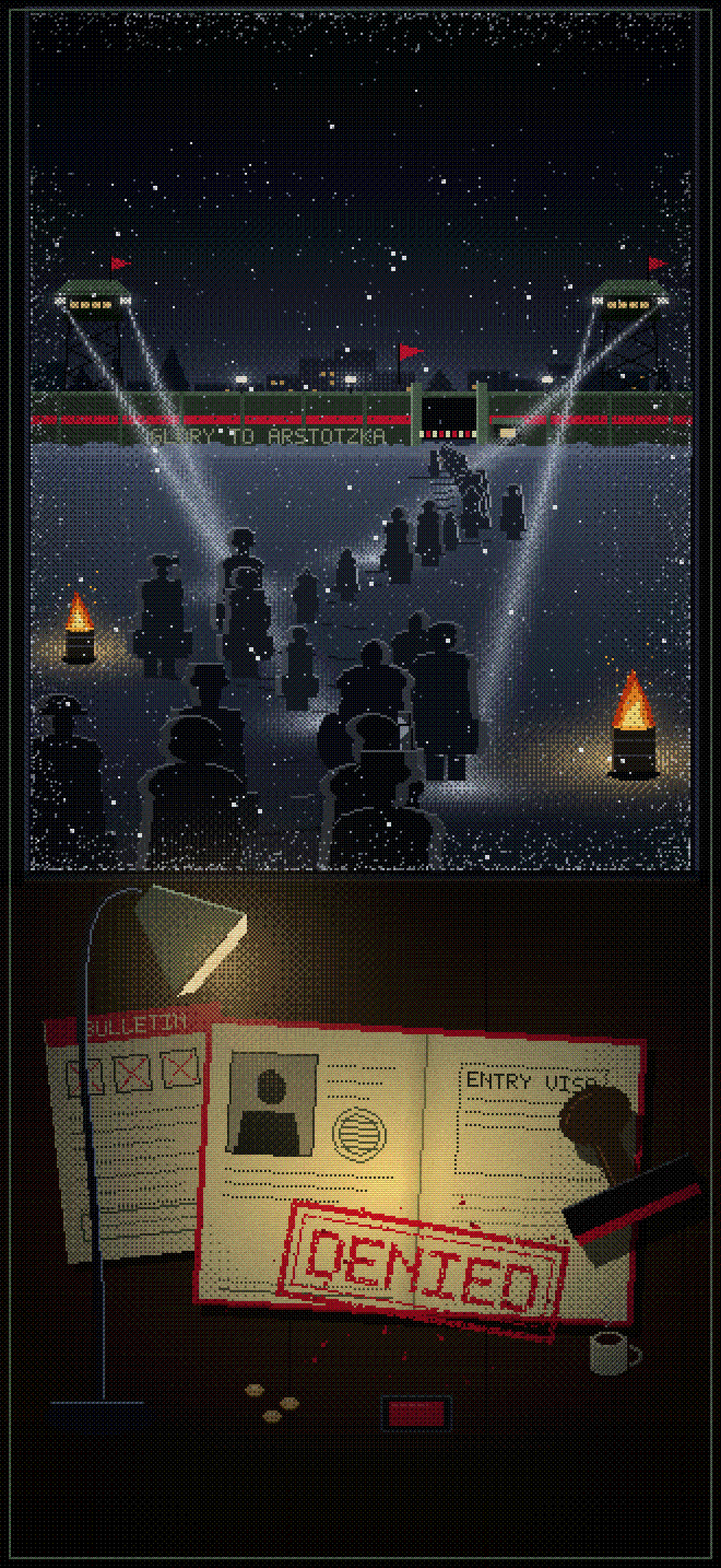
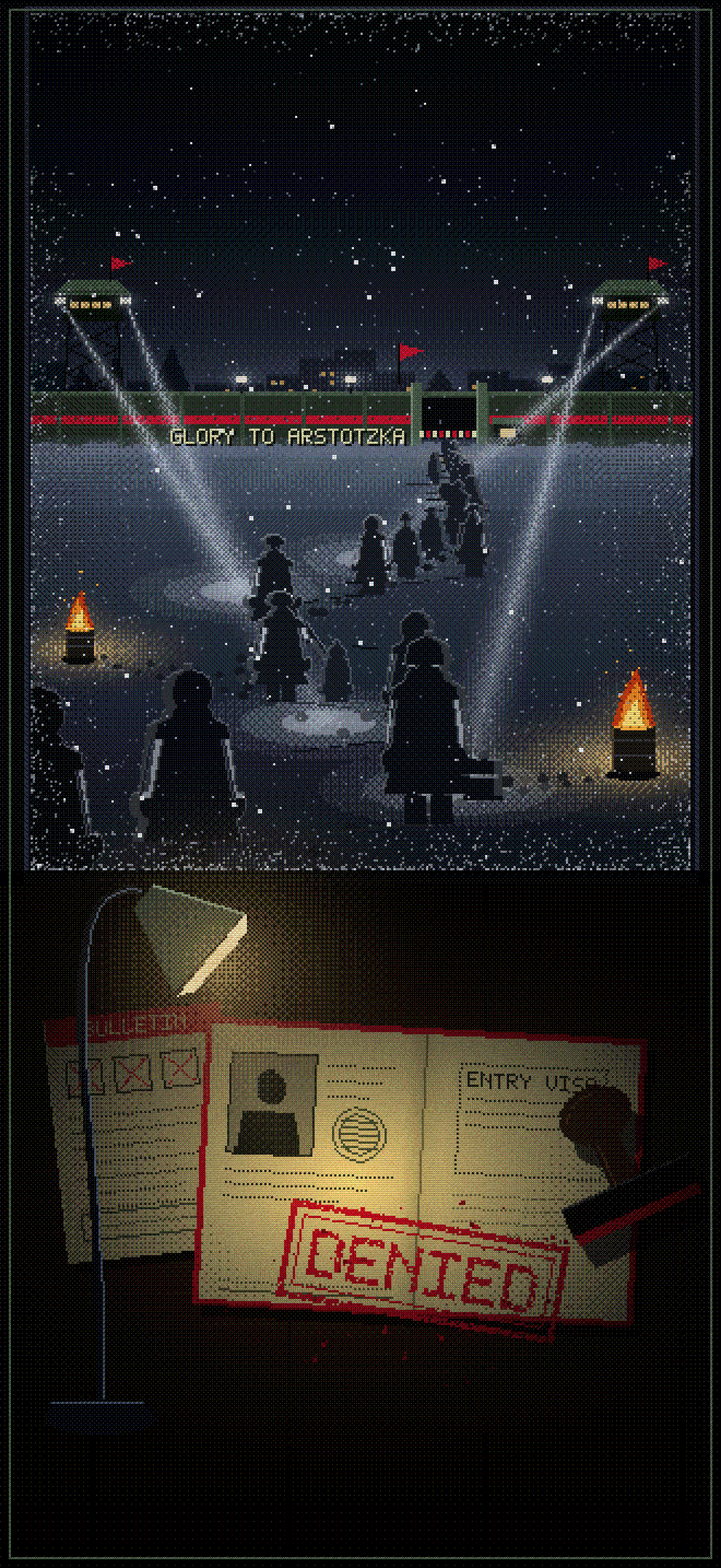
Wallpapers: Papers, Please A+ pass, readable queue and a quieter desk
Foreground figures get shoulders, collars, hats, a suitcase, a bundle and a child holding a hand, with rim light and gaps between them. Footprints, ground fog and dithered beam landings in the yard. Coffee cup, coins and ink pad gone, lamp pool falls off to black, wall sign crisp.

Claude-Session: https://claude.ai/code/session_01GRUokM32JgeWkBY35PaRht

diff --git a/tools/papersyard.py b/tools/papersyard.py
@@ -45,7 +45,29 @@ def beam(img, lit, sx, sy, tx, ty, wid, k, box, col=COLD):
             if not 0 < s < 1: continue
             hw = 1 + wid * s / 2; p = abs(-dx * uy + dy * ux)
             if p < hw: lighten(img, lit, x, y, k * (1 - p / hw) ** 1.4 * (1 - .4 * s), col)
-    if col == COLD: pool(img, lit, tx, ty, wid * 1.5, wid * .42, COLD, .9, box)
+    if col == COLD: pool(img, lit, tx, ty, wid * 1.5, wid * .42, COLD, .5, box); landing(img, lit, tx, ty, wid * 1.3, wid * .36, box)
+
+
+def landing(img, lit, cx, cy, rx, ry, box):
+    """Where a beam hits the snow: a soft dithered ellipse in three rings, dense in the middle and sparse at the rim."""
+    px = img.load()
+    for y in range(max(box[1], int(cy - ry)), min(box[3], int(cy + ry) + 1)):
+        for x in range(max(box[0], int(cx - rx)), min(box[2], int(cx + rx) + 1)):
+            q = math.hypot((x - cx) / rx, (y - cy) / ry)
+            if q >= 1: continue
+            dens, a = (.95, .5) if q < .36 else ((.6, .32) if q < .68 else (.3, .2))
+            if dens * 16 > BAYER[y % 4][x % 4]: px[x, y] = mix(px[x, y], COLD, a)
+            lit.putpixel((x, y), max(lit.getpixel((x, y)), int(255 * (1 - q) * .9)))
+
+
+def fog(img, G, rng):
+    """A low band of ground fog along the foot of the wall, drifting in patches, dithered."""
+    x0, y0, x1, y1 = G["win"]; hor = G["hor"]; fh = int(G["wall"] * 1.1); ph = [rng.uniform(0, 6.28) for _ in range(3)]; px = img.load()
+    for y in range(hor - 5, hor + fh):
+        f = (1 - (y - hor) / fh) ** 1.5 if y >= hor else 1 - (hor - y) / 6
+        for x in range(x0, x1):
+            i = f * (.5 + .28 * math.sin(x * .045 + ph[0]) + .22 * math.sin(x * .12 + y * .25 + ph[1]))
+            if i > 0: px[x, y] = mix(px[x, y], hexc("#7a889e"), .5 if i * 16 > BAYER[y % 4][x % 4] else .14)
 
 
 def skyline(d, G, rng):
@@ -97,58 +119,75 @@ def gate(d, G):
 
 
 def person(img, lit, x, foot, h, kind, side, rng, far=0.0):
-    """One silhouette seen from behind in a heavy coat, drawn as a mask, filled near black and edged with floodlight on its lit side."""
-    h = max(5, int(h)); W, Hh = int(h * .9) + 10, h + 8; mk = Image.new("L", (W, Hh)); d = ImageDraw.Draw(mk); cx, t = W // 2, 4; big = h >= 30
+    """One figure seen from behind in a heavy coat: shoulders, collar, hat and something carried, drawn as a mask, filled
+    near black and edged with a bright rim of floodlight on the lit side (a faint one on the other) so each one separates."""
+    h = max(5, int(h)); W, Hh = int(h * 1.2) + 12, h + 8; mk = Image.new("L", (W, Hh)); d = ImageDraw.Draw(mk); cx, t = W // 2, 4; big = h >= 28
     def P(a, b): return (cx + a * h, t + b * h)
     def r(a, b, c, e): d.rectangle([cx + a * h, t + b * h, cx + max(a, c) * h, t + max(b, e) * h], fill=255)
     def o(a, b, c, e): d.ellipse([cx + a * h, t + b * h, cx + c * h, t + e * h], fill=255)
-    w = {3: .2, 4: .22}.get(kind, .23)
-    d.polygon([P(-.17, .2), P(.17, .2), P(w + .01, .84), P(-w - .01, .84)], fill=255); o(-.2, .17, .2, .36)   # coat and sloped shoulders
-    r(-.12, .8, -.02, 1); r(.02, .8, .12, 1); o(-.07, .04, .07, .2); r(-.04, .17, .04, .24)    # boots, head, neck
-    if big:
-        d.line([P(-.2, .36), P(-w - .01, .8)], fill=0, width=1); d.line([P(.2, .36), P(w + .01, .8)], fill=0, width=1)   # a gap between arm and coat
-        r(-w - .03, .62, -w + .01, .8); r(w - .01, .62, w + .03, .8)   # hands
-    if kind == 0: o(-.115, -.01, .115, .12); o(-.125, .05, .125, .17)   # fur hat with flaps
-    elif kind == 1: o(-.125, -.01, .125, .25); o(-.08, .15, .08, .3)   # a big hood and scarf
-    elif kind == 2: o(-.1, -.01, .1, .09); r(-.13, .06, .13, .08)   # brimmed cap
-    elif kind == 3: r(.2, .64, .36, .86); d.line([P(.28, .64), P(.28, .56)], fill=255)   # a suitcase
-    elif kind == 4: o(-.3, .42, -.14, .72); r(-.14, .26, -.1, .5)   # a bag on the hip
-    elif kind == 5: o(-.1, -.1, .1, .08); o(-.12, .0, .12, .1)   # a tall fur hat
-    elif kind == 6: o(-.1, -.02, .1, .09); d.line([P(.2, .82), P(.13, -.04)], fill=255, width=max(1, h // 18))   # cap and rifle
+    if kind == 7:   # a child in a bobble hat
+        d.polygon([P(-.2, .32), P(.2, .32), P(.27, .86), P(-.27, .86)], fill=255); o(-.15, .06, .15, .36); o(-.04, -.03, .04, .08); r(-.15, .84, -.03, 1); r(.03, .84, .15, 1)
+    else:
+        w = .22 if kind == 3 else .25
+        d.polygon([P(-.05, .19), P(.05, .19), P(.2, .27), P(.23, .5), P(w + .02, .84), P(-w - .02, .84), P(-.23, .5), P(-.2, .27)], fill=255)   # coat with sloped shoulders
+        o(-.12, .15, .12, .28); o(-.07, .03, .07, .2); r(-.12, .8, -.02, 1); r(.02, .8, .12, 1)   # collar, head, boots
+        if big:
+            d.line([P(-.18, .34), P(-w - .02, .8)], fill=0, width=1); d.line([P(.18, .34), P(w + .02, .8)], fill=0, width=1)   # a gap between arm and coat
+            o(-w - .04, .6, -w + .02, .72); o(w - .02, .6, w + .04, .72)   # hands
+        if kind in (0, 3): o(-.115, -.01, .115, .12); o(-.125, .05, -.06, .17); o(.06, .05, .125, .17); r(-.02, -.04, .02, 0)   # fur hat, flaps down
+        elif kind == 1: o(-.125, -.01, .125, .25); o(-.1, .15, .1, .29)   # a hood and scarf
+        elif kind == 2: o(-.1, 0, .1, .09); r(-.12, .06, .12, .1)   # flat cap
+        elif kind == 4: o(-.32, .06, -.1, .34); d.line([P(-.22, .24), P(-.15, .5)], fill=255, width=max(1, h // 25))   # a bundle on a stick over the shoulder
+        elif kind == 5: o(-.1, -.1, .1, .08); o(-.12, 0, .12, .1)   # a tall fur hat
+        elif kind == 6: o(-.1, -.02, .1, .09); r(-.13, .06, .13, .09); d.line([P(.21, .8), P(.14, -.04)], fill=255, width=max(1, h // 18))   # cap and rifle
+        elif kind == 8: o(-.11, 0, .11, .1); o(-.125, .05, .125, .15); d.line([P(.2, .3), P(.43, .63)], fill=255, width=max(2, h // 12)); o(.4, .58, .47, .68)   # reaching for a child's hand
+        if kind == 3: r(.2, .66, .4, .88); d.line([P(.3, .66), P(.3, .6)], fill=255, width=max(1, h // 28)); d.line([P(.23, .74), P(.37, .74)], fill=0)   # a suitcase
     body = mix(hexc("#06080c"), hexc("#2a3344"), far * .75)   # far figures sit in the haze, near ones are black
-    img.paste(Image.new("RGB", mk.size, body), (int(x - cx), int(foot - t - h)), mk)
+    ox, oy = int(x - cx), int(foot - t - h)
+    img.paste(Image.new("RGB", mk.size, body), (ox, oy), mk)
     if h < 9: return
     k = .62 + .38 * lit.getpixel((int(min(max(x, 0), img.width - 1)), int(min(foot - h // 2, img.height - 1)))) / 255; w = 1 + h // 30
-    for n in range(w + 2):   # a bright edge on the lit side, then a soft fall-off into the coat
-        e = ImageChops.subtract(mk, ImageChops.offset(mk, side * (n + 1), 0)).point(lambda v: 255 if v > 100 else 0); d2 = ImageDraw.Draw(e); d2.rectangle([0, t + int(.86 * h), mk.width, mk.height], fill=0)
-        kk = k if n < w else k * (.3 if n == w else .15)
-        if n < w + (1 if h > 25 else 0): img.paste(Image.new("RGB", mk.size, mix(body, COLD, kk)), (int(x - cx), int(foot - t - h)), e)
-    top = ImageChops.subtract(mk, ImageChops.offset(mk, 0, 1)).point(lambda v: 255 if v > 100 else 0)
-    img.paste(Image.new("RGB", mk.size, mix(body, COLD, k * .6)), (int(x - cx), int(foot - t - h)), top)
+    def edge(dx, dy, kk):
+        e = ImageChops.subtract(mk, ImageChops.offset(mk, dx, dy)).point(lambda v: 255 if v > 100 else 0); ImageDraw.Draw(e).rectangle([0, t + int(.86 * h), mk.width, mk.height], fill=0)
+        img.paste(Image.new("RGB", mk.size, mix(body, COLD, kk)), (ox, oy), e)
+    for n in range(w + 1): edge(side * (n + 1), 0, k if n < w else k * .3)
+    if h >= 25: edge(-side, 0, k * .4)
+    edge(0, 1, k * .6)
+
+
+def prints(img, pts):
+    """Footprints in the snow: pairs of small dents with a faint lip, along a list of (x, y, h)."""
+    d = ImageDraw.Draw(img)
+    for x, y, h in pts:
+        for s in (-1, 1):
+            fx, fy = x + s * .09 * h, y - (.06 if s > 0 else -.06) * h; c = img.getpixel((int(fx), int(min(fy, img.height - 1))))
+            d.ellipse([fx - .03 * h - .5, fy - .018 * h - .5, fx + .03 * h + .5, fy + .018 * h + .5], fill=mix(c, INK, .45)); d.point((fx + 1, fy + .03 * h + 1), mix(c, COLD, .25))
 
 
 def queue(img, lit, G, rng):
     hor, yb, y1 = G["hor"], G["yb"], G["win"][3]
     def at(u):
         return G["gate"] + (G["near_x"] - G["gate"]) * u + G["amp"] * math.sin(u * G["bends"] * math.pi) * u ** .6, hor + (yb - hor) * u, G["h0"] + (G["h1"] - G["h0"]) * u
-    d = ImageDraw.Draw(img); steps = []; u = .012
+    d = ImageDraw.Draw(img); steps = []; trail = []; u = .012; gap = G.get("gap", .3)
     while True:
         x, y, h = at(u)
         if y > y1 + h * .6: break
-        steps.append((x, y, h)); u += G.get("gap", .25) * h / (yb - hor) * rng.uniform(.85, 1.15)
-    items = []
+        steps.append((x, y, h)); u += gap * h / (yb - hor) * rng.uniform(.85, 1.15) * (2.1 if rng.random() < .22 else 1)   # a few bigger gaps
+    uu = .012
+    while uu < u: trail.append(at(uu)); uu += .12 * at(uu)[2] / (yb - hor)
+    for bx, by, bs in G["barrels"]:   # tracks lead off the lane to the burn barrels
+        sx, sy, sh = at(.42 if bx < G["win"][2] / 2 else .6)
+        for f in [i / 9 for i in range(1, 9)]: trail.append((sx + (bx - sx) * f, sy + (by - sy) * f, sh * (1 - f) + 14 * f))
+    prints(img, trail); items = []
     for n, (x, y, h) in enumerate(steps):
-        kid = rng.random() < .1; hh = h * (.62 if kid else rng.uniform(.9, 1.08))
-        items.append((y, "p", x + rng.uniform(-.14, .14) * h, hh, rng.choice([0, 0, 1, 1, 2, 3, 4, 5]), 1 if x < G["win"][2] / 2 else -1))
-        if n % 7 == 4:   # a guard on the flank, rifle slung
-            items.append((y + .2, "p", x + (1 if n % 2 else -1) * .8 * h, h, 6, 1 if x < G["win"][2] / 2 else -1))
-    for it in sorted(items, key=lambda i: i[0]):
-        y, kind = it[0], it[1]
-        if kind == "p":
-            _, _, x, h, k, side = it
-            g = img.getpixel((int(x), min(int(y), img.height - 1)))   # a long shadow thrown away from the floodlight
-            d.polygon([(x - .12 * h, y), (x + .12 * h, y), (x + side * 1.0 * h, y + .1 * h)], fill=mix(g, INK, .55))
-            person(img, lit, x, y, h, k, side, rng, max(0, 1 - h / G["h1"]) ** 1.5)
+        kind = rng.choice([0, 0, 1, 1, 2, 2, 3, 4, 5]); hh = h * rng.uniform(.84, 1.12); side = 1 if x < G["win"][2] / 2 else -1; jx = x + rng.uniform(-.2, .2) * h
+        if n % 6 == 2 and hh >= 20: kind = 8; items.append((y + .1, jx + .52 * hh, hh * .54, 7, side))   # a child holding a hand
+        items.append((y, jx, hh, kind, side))
+        if n % 7 == 4: items.append((y + .2, x + (1 if n % 2 else -1) * .9 * h, h, 6, side))   # a guard on the flank, rifle slung
+    for y, x, h, k, side in sorted(items, key=lambda i: i[0]):
+        g = img.getpixel((int(x), min(int(y), img.height - 1)))   # a long shadow thrown away from the floodlight
+        d.polygon([(x - .12 * h, y), (x + .12 * h, y), (x + side * 1.0 * h, y + .1 * h)], fill=mix(g, INK, .55))
+        person(img, lit, x, y, h, k, side, rng, max(0, 1 - h / G["h1"]) ** 1.5)
 
 
 def barrel(img, lit, x, y, s, rng, box):
@@ -196,6 +235,7 @@ def yard(img, G, rng, scale):
         h = 2 + rng.randrange(3); d.ellipse([x - 5, hor + 1 - h, x + 5, hor + 3], fill=mix(hexc("#46526a"), COLD, .15))
     for lx in G["posts"]:   # small lamps along the wall
         d.line([(lx, top - 5), (lx, top)], fill=INK); d.rectangle([lx - 2, top - 7, lx + 2, top - 5], fill=(255, 246, 215)); heads.append((lx, top - 6))
+    fog(img, G, rng)
     for (hx, hy), (tx, ty, wd) in zip(heads[:4], G["beams"]): beam(img, lit, hx, hy, tx, ty, wd, .9, box)
     for hx, hy in heads: pool(img, lit, hx, hy, 15 * u, 10 * u, COLD, .8, box)
     pool(img, lit, G["gate"], hor + 4, 26 * u, 9 * u, WARM, .7, box)

diff --git a/tools/papersart.py b/tools/papersart.py
@@ -23,14 +23,14 @@ GLYPHS = {   # 5x7 pixel font, only the letters the wallpaper prints
 LAYOUT = {   # low-res coordinates. The phone keeps y < 70 (the clock) sky only, and y > 660 (the dock) dark desk
     "phone": dict(
         yard=dict(win=(14, 6, 316, 398), hor=205, wall=26, yb=470, gate=205, gw=30, towers=[42, 288], ctop=134, tu=1, posts=[110, 160, 250],
-                  beams=[(150, 330, 46), (110, 270, 40), (210, 360, 50), (170, 255, 36)], h0=6, h1=128, near_x=96, amp=96, bends=4.3, calm=70, barrels=[(36, 300, 1.5), (290, 352, 2.3)]),
-        scale=1, dtop=405, pool=(175, 540, 190, 135), pp=(192, 536, 98, 126, -3), bul=(66, 518, 82, 112, 6), stamp=(194, 582, 3, -10),
-        tool=(282, 532, 1.5, 24), lamp=(66, 410, 46, 646, 41), coins=[(116, 636), (132, 642), (124, 648)], pad=(190, 646), mug=(278, 612)),
+                  beams=[(150, 330, 46), (110, 270, 40), (210, 360, 50), (170, 255, 36)], h0=6, h1=128, gap=.26, near_x=96, amp=96, bends=4.3, calm=70, barrels=[(36, 300, 1.5), (290, 352, 2.3)]),
+        scale=1, dtop=405, pool=(160, 540, 205, 140), pp=(192, 536, 98, 126, -3), bul=(66, 518, 82, 112, 6), stamp=(194, 582, 3, -10),
+        tool=(282, 532, 1.5, 24), lamp=(66, 410, 46, 646, 41)),
     "desktop": dict(
         yard=dict(win=(22, 10, 618, 212), hor=122, wall=22, yb=292, gate=330, gw=22, towers=[96, 560], ctop=72, tu=.7, posts=[190, 250, 440],
                   beams=[(250, 190, 34), (210, 160, 30), (420, 200, 36), (370, 168, 28)], h0=4, h1=78, gap=.15, near_x=150, amp=200, bends=3.2, calm=0, barrels=[(70, 170, 1.1), (580, 190, 1.5)]),
         scale=1.5, dtop=219, pool=(335, 292, 250, 90), pp=(345, 288, 72, 88, -3), bul=(240, 292, 56, 80, 7), stamp=(347, 322, 2, -10),
-        tool=(430, 300, 1.0, 16), lamp=(178, 232, 150, 350, 38), coins=[(470, 332), (484, 337), (477, 342)], pad=(540, 320), mug=(95, 318)),
+        tool=(430, 300, 1.0, 16), lamp=(178, 232, 150, 350, 38)),
 }
 
 
@@ -120,7 +120,7 @@ def lamp_light(img, D, H):
     px = img.load(); cx, cy, rx, ry = D["pool"]
     for y in range(D["dtop"] - 7, H):
         for x in range(img.width):
-            q = math.hypot((x - cx) / rx, (y - cy) / ry); i = max(0, 1 - q) ** 1.1; f = .34 + .66 * i; r, g, b = px[x, y]
+            q = math.hypot((x - cx) / rx, (y - cy) / ry); i = max(0, 1 - q) ** 1.1; f = .1 + .9 * i ** 1.15; r, g, b = px[x, y]
             px[x, y] = (min(255, int(r * f * (1 + .22 * i))), min(255, int(g * f * (1 + .02 * i))), int(b * f * (1 - .3 * i)))
 
 
@@ -143,7 +143,6 @@ def papers(kind):
     W, H = SIZES[kind]; desktop = kind == "desktop"; scale = 8 if desktop else 4; w, h = W // scale, H // scale
     D = LAYOUT[kind]; G = D["yard"]; x0, y0, x1, y1 = G["win"]; dtop = D["dtop"]; rng = random.Random(41)
     img = Image.new("RGB", (w, h), hexc("#07090d")); d = ImageDraw.Draw(img); yard(img, G, rng, D["scale"]); d = ImageDraw.Draw(img)
-    sl = "GLORY TO ARSTOTZKA"; text(d, 69 if not desktop else 366, G["hor"] - 9, sl, mix(CREAM, DOLIVE, .45), 1)   # painted on the wall
     for r in ([0, 0, w, y0 - 1], [0, 0, x0 - 1, h], [x1 + 1, 0, w, h], [0, y1 + 1, w, h]): d.rectangle(r, fill=hexc("#07090d"))
     d.rectangle([x0 - 3, y0 - 3, x1 + 3, y1 + 3], outline=hexc("#2a3344"), width=2); d.rectangle([x0 - 1, y0 - 1, x1 + 1, y1 + 1], outline=hexc("#0b0e14"))
     for _ in range(int(2400 * D["scale"])):   # frost creeping in from the edges of the glass
@@ -159,12 +158,6 @@ def papers(kind):
     sx, sy, ss, sa = D["stamp"]; put(img, imprint(ss, rng), sx, sy, sa, (0, 0)); sp = ImageDraw.Draw(img)
     splatter(sp, sx, sy, width("DENIED", ss) * .62, rng, 70 if not desktop else 50)
     tx, ty, tk, ta = D["tool"]; put(img, tool(tk), tx, ty, ta, (7, 10))
-    for cx, cy in D["coins"]:
-        sp.ellipse([cx - 4, cy - 2, cx + 4, cy + 2], fill=hexc("#8a6a2c")); sp.ellipse([cx - 4, cy - 3, cx + 4, cy + 1], fill=hexc("#e8c27a")); sp.line([(cx - 2, cy - 2), (cx + 1, cy - 2)], fill=(255, 244, 205))
-    px, py = D["pad"]; sp.rectangle([px - 16, py - 8, px + 16, py + 8], fill=hexc("#14171c"), outline=hexc("#4a566a")); sp.rectangle([px - 12, py - 5, px + 12, py + 5], fill=RED); sp.line([(px - 11, py - 4), (px + 5, py - 4)], fill=hexc("#e8506a"))
-    mx, my = D["mug"]; sp.ellipse([mx - 9, my + 12, mx + 10, my + 17], fill=hexc("#1a1008")); sp.rectangle([mx - 8, my, mx + 8, my + 14], fill=hexc("#aeb7a0")); sp.ellipse([mx - 8, my + 10, mx + 8, my + 16], fill=hexc("#aeb7a0"))
-    sp.arc([mx + 4, my + 3, mx + 15, my + 12], 270, 90, fill=hexc("#aeb7a0"), width=2); sp.ellipse([mx - 8, my - 3, mx + 8, my + 3], fill=hexc("#d8dcc4")); sp.ellipse([mx - 6, my - 2, mx + 6, my + 2], fill=hexc("#2a1a10")); sp.line([(mx - 7, my + 2), (mx - 7, my + 12)], fill=hexc("#e8ecd8"))
-    for k in range(14): sp.point((mx + int(2.5 * math.sin(k * .7)) - 1, my - 6 - k), hexc("#8a96a8") if k % 2 else hexc("#c4ccd8"))   # steam
     lamp_light(img, D, h)
     lp = D["lamp"]; lx, ly = lp[0] + math.cos(math.radians(lp[4])) * 30, lp[1] + math.sin(math.radians(lp[4])) * 30
     beam(img, Image.new("L", img.size), lx, ly, D["pool"][0] - 20, D["pool"][1] + 10, 120 if not desktop else 90, .32, (0, D["dtop"], w, h), WARM)
@@ -174,5 +167,7 @@ def papers(kind):
     lamp(img, D, rng)
     f = 6 if desktop else 4
     vignette(img, f); ImageDraw.Draw(img).rectangle([f, f, w - 1 - f, h - 1 - f], outline=OLIVE)
+    sl = "GLORY TO ARSTOTZKA"; sx0, sy0 = (78, G["hor"] - 9) if not desktop else (366, G["hor"] - 10)   # painted on the wall, over the lighting so it stays crisp
+    text(ImageDraw.Draw(img), sx0 + 1, sy0 + 1, sl, hexc("#0a0e0a"), 1); text(ImageDraw.Draw(img), sx0, sy0, sl, mix(CREAM, WARM, .15), 1)
     img = dither(img.resize((w * 2, h * 2), Image.NEAREST), 6)
     return grain(scanlines(img.resize((W, H), Image.NEAREST), scale))
